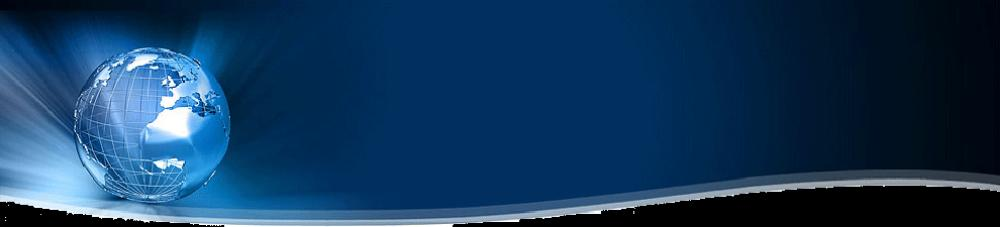
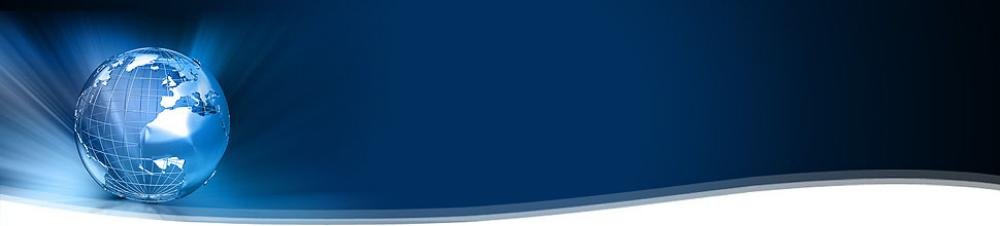
header novo

diff --git a/etc/css/css.css b/etc/css/css.css
@@ -18,12 +18,17 @@ font-face {
 	font-style: normal;
 }
 
-* {
+html {
+	background-color: #ffffff;
 	margin: 0px;
 	padding: 0px;
-	-moz-border-radius: 15px;
+}
+
+* { /*-moz-border-radius: 15px;
 	-khtml-border-radius: 15px;
-	border-radius: 15px;
+	border-radius: 15px;*/
+	margin: 0px;
+	padding: 0px;
 	text-decoration: none;
 	/*behavior: url(border-radius.htc);*/
 }
@@ -48,7 +53,7 @@ body { /*font-family: Verdana, Geneva, sans-serif;*/
             filter: progid:DXImageTransform.Microsoft.gradient(startColorstr='#0A284B', endColorstr='#135887');
             zoom:1;
             */
-	background-color: #ffff00;
+	background-color: #ffffff;
 	background: -webkit-gradient(linear, left top, left bottom, from(#ffff00),
 		to(#ffffff) );
 	background: -moz-linear-gradient(top, #ffff00, #ffffff);
@@ -65,46 +70,53 @@ body { /*font-family: Verdana, Geneva, sans-serif;*/
 	margin: 1em 0em;
 }
 
-.header{
+.header {
 	background: url("../../imagens/banner/banner.jpg") no-repeat;
-	height: 220px;
+	height: 226px;
 	/*border: tomato 1px solid;*/
 }
 
-.header a{
-	float:right;
+.header a {
+	float: right;
 	margin: 2em 5em;
-	
-	
 }
 
 .header_menu {
 	height: 3em;
 	background-color: #ffff00;
-	background: -webkit-gradient(linear, 0% 0%, 0% 100%, from(#FFFF00), to(#FFFF00), color-stop(.5,#FFFFFF));
-	background: -moz-linear-gradient(top, #FFFF00 0%, #FFFFFF 50%, #FFFF00 100%);
+	background: -webkit-gradient(linear, 0% 0%, 0% 100%, from(#FFFF00),
+		to(#FFFF00), color-stop(.5, #FFFFFF) );
+	background: -moz-linear-gradient(top, #FFFF00 0%, #FFFFFF 50%, #FFFF00 100%)
+		;
 	background: -o-linear-gradient(#ffff00, #aaaa00);
 	/* IE5.5 - IE7 */
-	filter: progid:DXImageTransform.Microsoft.Gradient(GradientType=0,StartColorStr=#FFFFFF00,EndColorStr=#FFFFFFFF);
-
+	filter: progid :       DXImageTransform.Microsoft.Gradient (     
+		 GradientType =       0, StartColorStr =       #FFFFFF00, EndColorStr
+		=     
+		 #FFFFFFFF );
 	/* IE8 */
-	-ms-filter: "progid:DXImageTransform.Microsoft.Gradient(GradientType=0,StartColorStr=#FFFFFF00,EndColorStr=#FFFFFFFF)";
-	
+	-ms-filter:
+		"progid:DXImageTransform.Microsoft.Gradient(GradientType=0,StartColorStr=#FFFFFF00,EndColorStr=#FFFFFFFF)"
+		;
 	/*background: url(../../imagens/estrutura/fundo_links.png) no-repeat;*/
 }
 
+#receber_noticias {
+	margin-top: 3em;
+}
 
-
-
-.receber_noticias {
-	margin: 3em 0em;
+#receber_noticias input {
+	margin: 1em 0em;
 	float: left;
 }
 
-.title_icons {
-	margin: 1em 0em;
+#title_icons {
+	margin-bottom: 1em;
 }
 
+#receber_noticias_texto {
+	float: left;
+}
 
 .header_textbox {
 	width: 165px;
@@ -171,27 +183,6 @@ a.footer_text {
 	margin: 0em 1em;
 }
 
-/*.content_conteudo_division {
-	width: 30%;
-	float: left;
-}
-
-.content_conteudo_division_link {
-	height: 220px;
-	display: block;
-	text-decoration: none;
-}
-
-.content_conteudo_division_link:hover {
-	text-decoration: none
-}
-
-.content_conteudo_division_center {
-	width: 370px;
-	height: 250px;
-	float: left;
-}
-*/
 a.imagem {
 	text-decoration: none;
 	color: #fff;
@@ -264,12 +255,6 @@ a.texto {
 	background-position: left;
 }
 
-#pscroller1 {
-	width: 100%;
-	height: 25em;
-	border: 0em;
-}
-
 #pscroller2 {
 	width: 330px;
 	height: 78px;
@@ -277,14 +262,12 @@ a.texto {
 	background-color: white;
 }
 
-.content_center1 {
-	width: 330px;
-	height: 170px;
-	/*margin-top: 5%;*/
-	margin-left: auto;
-	margin-right: auto;
+/*.content_center1 {
+	width: 100%;
+	margin: 0em auto;
+	
 }
-
+*/
 .content_center {
 	width: 330px;
 	height: 50px;
@@ -477,21 +460,22 @@ Regra 3 - Classe que define a posi�ao e a exibi�ao dos menus verticais (inic
 ul.menubar ul.menu {
 	display: none;
 	position: absolute;
-	text-decoration: none;
 }
 
 /*
 Regra 4 - Classe que define a aparencia do link da barra horizontal
 */
 ul.menubar a {
-	font-size: 13px;
-	font-family: Verdana, Geneva, sans-serif;
-	font-weight: bold;
 	display: block;
-	/*padding: 0.35em 1.35em;*/
-	padding: 5px 11px;
+	font-weight: bold;
 	color: black;
 	text-decoration: none;
+	/*
+	font-size: 13px;
+	font-family: Verdana, Geneva, sans-serif;
+	padding: 5px 11px;
+	*/
+	padding: 0.4em 0.6em;
 }
 
 /*
@@ -585,11 +569,11 @@ ul.menubar a:hover {
 }
 
 .icons {
-	margin: 1em 0em;
+	margin: 0.5em 0em;
 }
 
 .iconmaistexto {
-	margin: 0em 1.3em;
+	margin: 0em 1.36em;
 	text-align: center;
 	float: left;
 	font-size: 1em;
@@ -646,8 +630,7 @@ ul.menubar a:hover {
 }
 
 .center {
-	text-align: center;
-	margin: auto;
+	background-color: white;
 }
 
 .leftConta {
@@ -746,7 +729,15 @@ a,a:visited,a:active,a:hover {
 }
 
 .cartaz {
-	
+	width: 76%;
+	margin: 0em auto;
+	text-align: center;
+	/*border: tomato 1px solid;*/
+}
+
+#pscroller1 { /*width: 100%;*/
+	height: 22em;
+	border: 0em;
 }
 
 .validadores {

diff --git a/etc/js/js.js b/etc/js/js.js
@@ -4,6 +4,8 @@
  */
 
  
+ 	    //
+ 
 
                         function getInternetExplorerVersion()
                 // Returns the version of Internet Explorer or a -1
